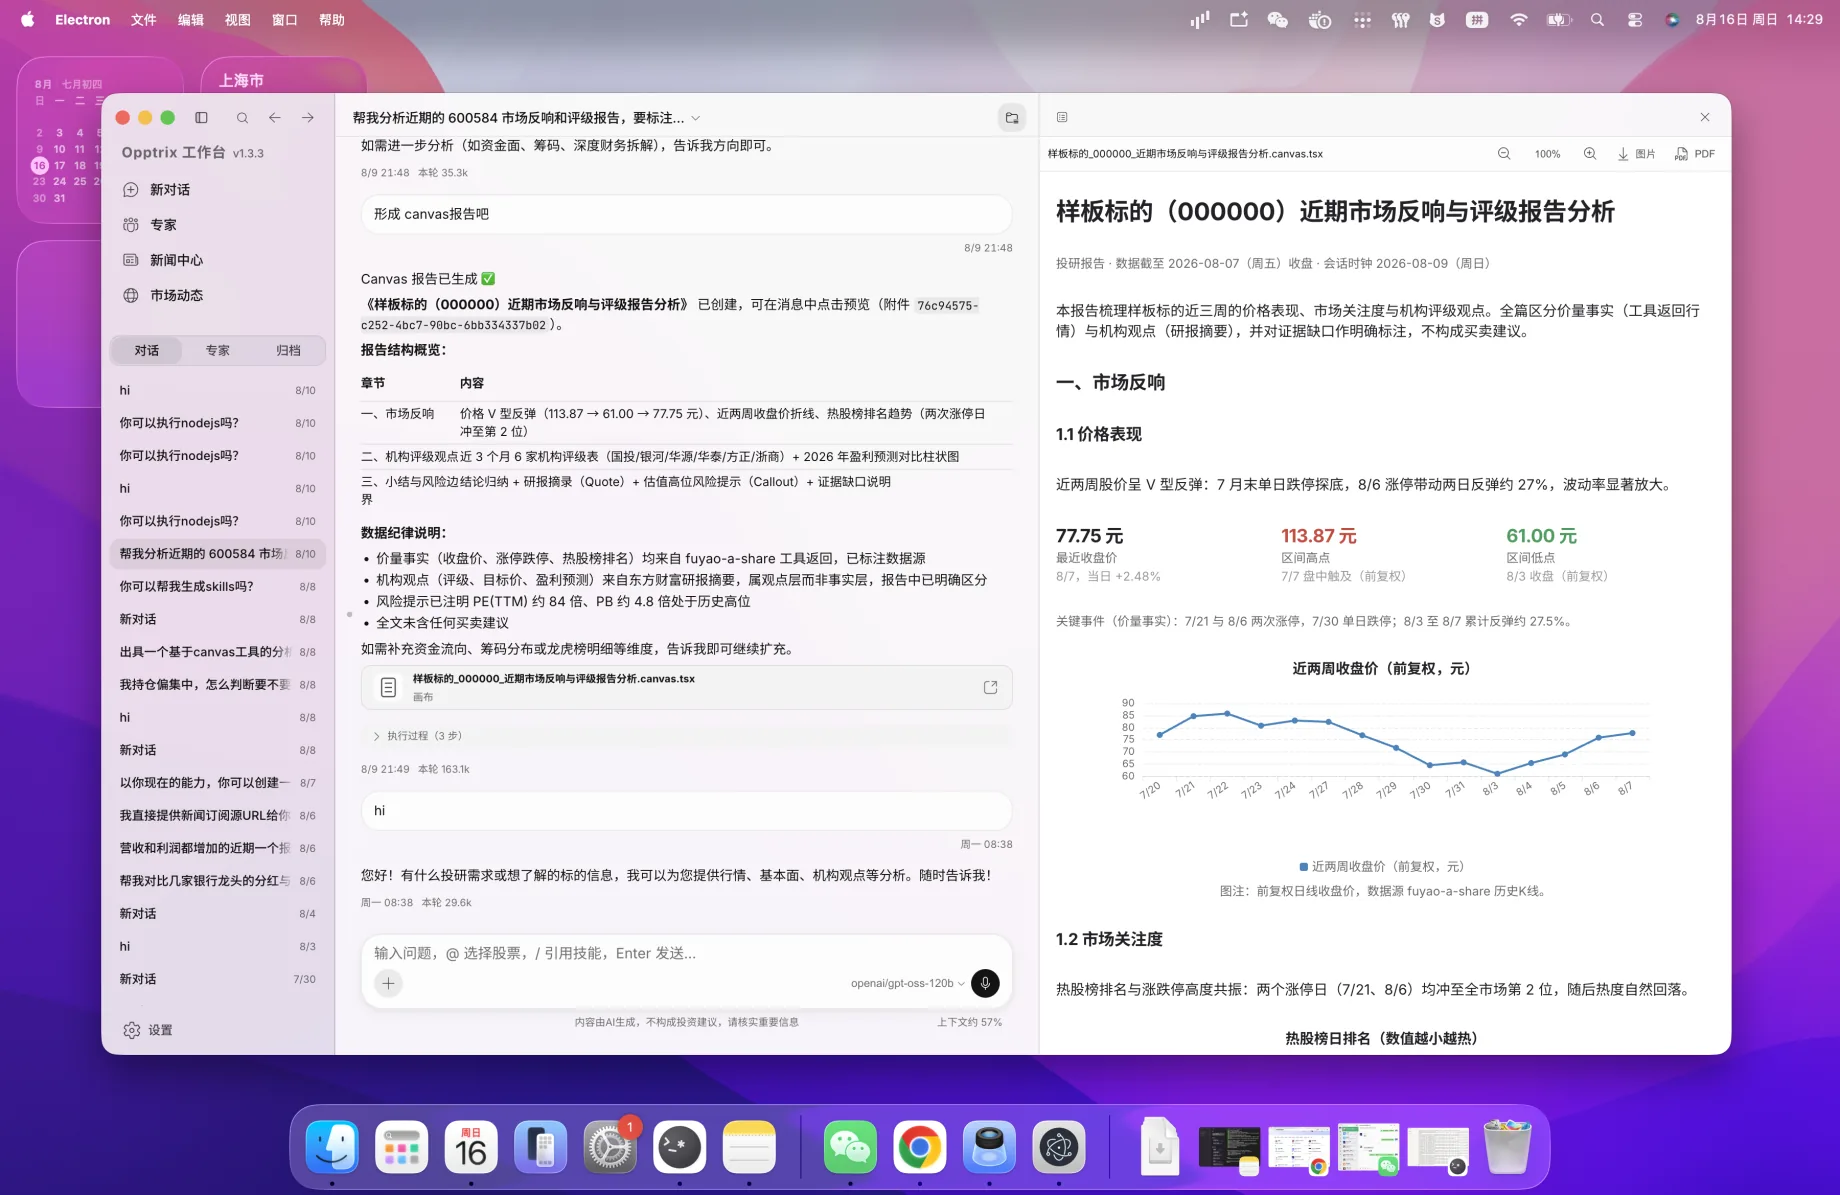
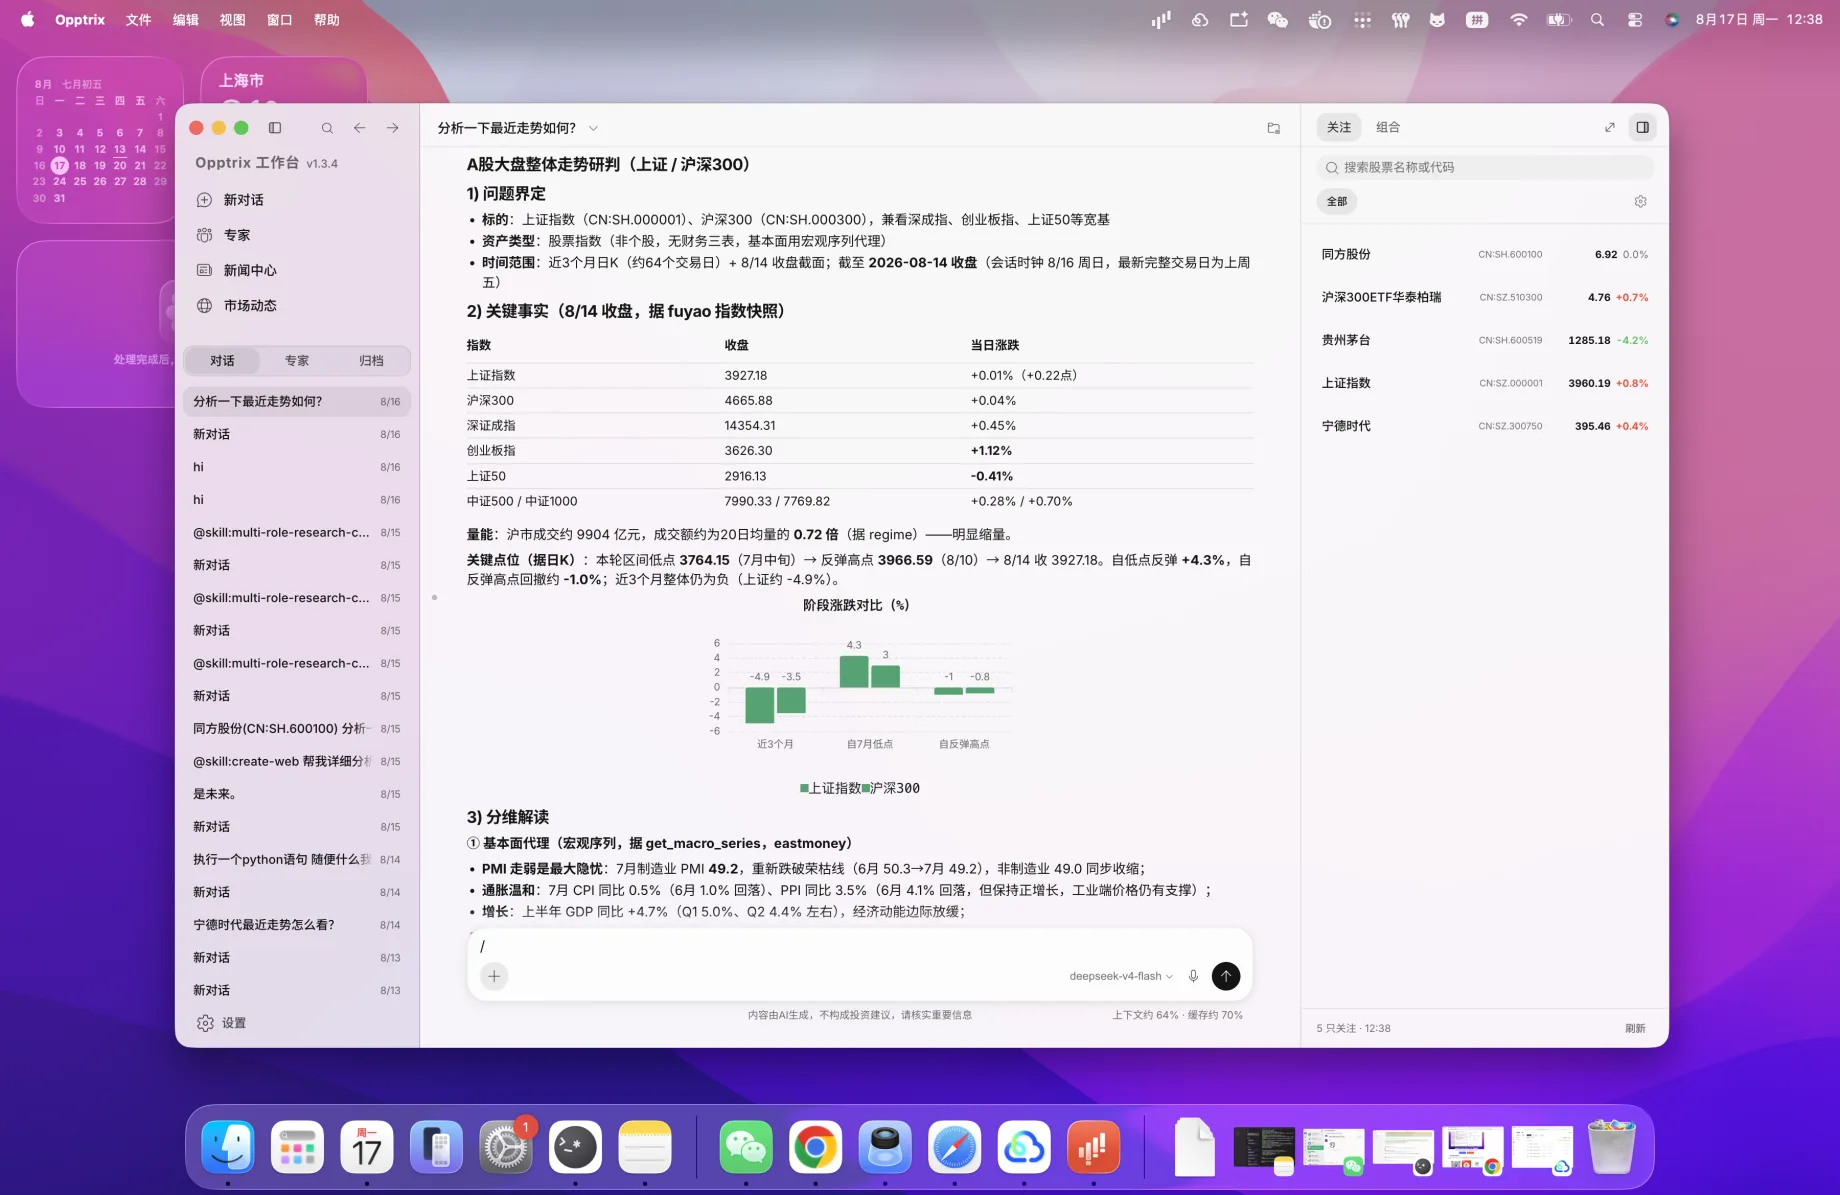
docs: refresh README screenshot as WebP and fix doc links

diff --git a/docs/UI-LAYOUT.md b/docs/UI-LAYOUT.md
@@ -27,7 +27,7 @@
 
 ### 1.1 Chat 主界面（当前默认入口）
 
-产品默认以 **聊天 + 右侧投研面板** 为主布局（见根目录 [`screenshot.jpg`](../screenshot.jpg)）：
+产品默认以 **聊天 + 右侧投研面板** 为主布局（见根目录 [`screenshot.webp`](../screenshot.webp)）：
 
 ```
 ┌─────────────┬──────────────────────────────┬──────────────────┐

diff --git a/docs/UI-DESIGN-SYSTEM.md b/docs/UI-DESIGN-SYSTEM.md
@@ -17,7 +17,7 @@
 
 ## 1.1 界面参考
 
-仓库根目录 [`screenshot.jpg`](../screenshot.jpg) 为当前产品主界面截图，可作为布局与信息密度的对照：
+仓库根目录 [`screenshot.webp`](../screenshot.webp) 为当前产品主界面截图，可作为布局与信息密度的对照：
 
 - **左栏**：会话列表与新建对话
 - **中栏**：Agent 回复、工具执行过程、输入区与模型选择
